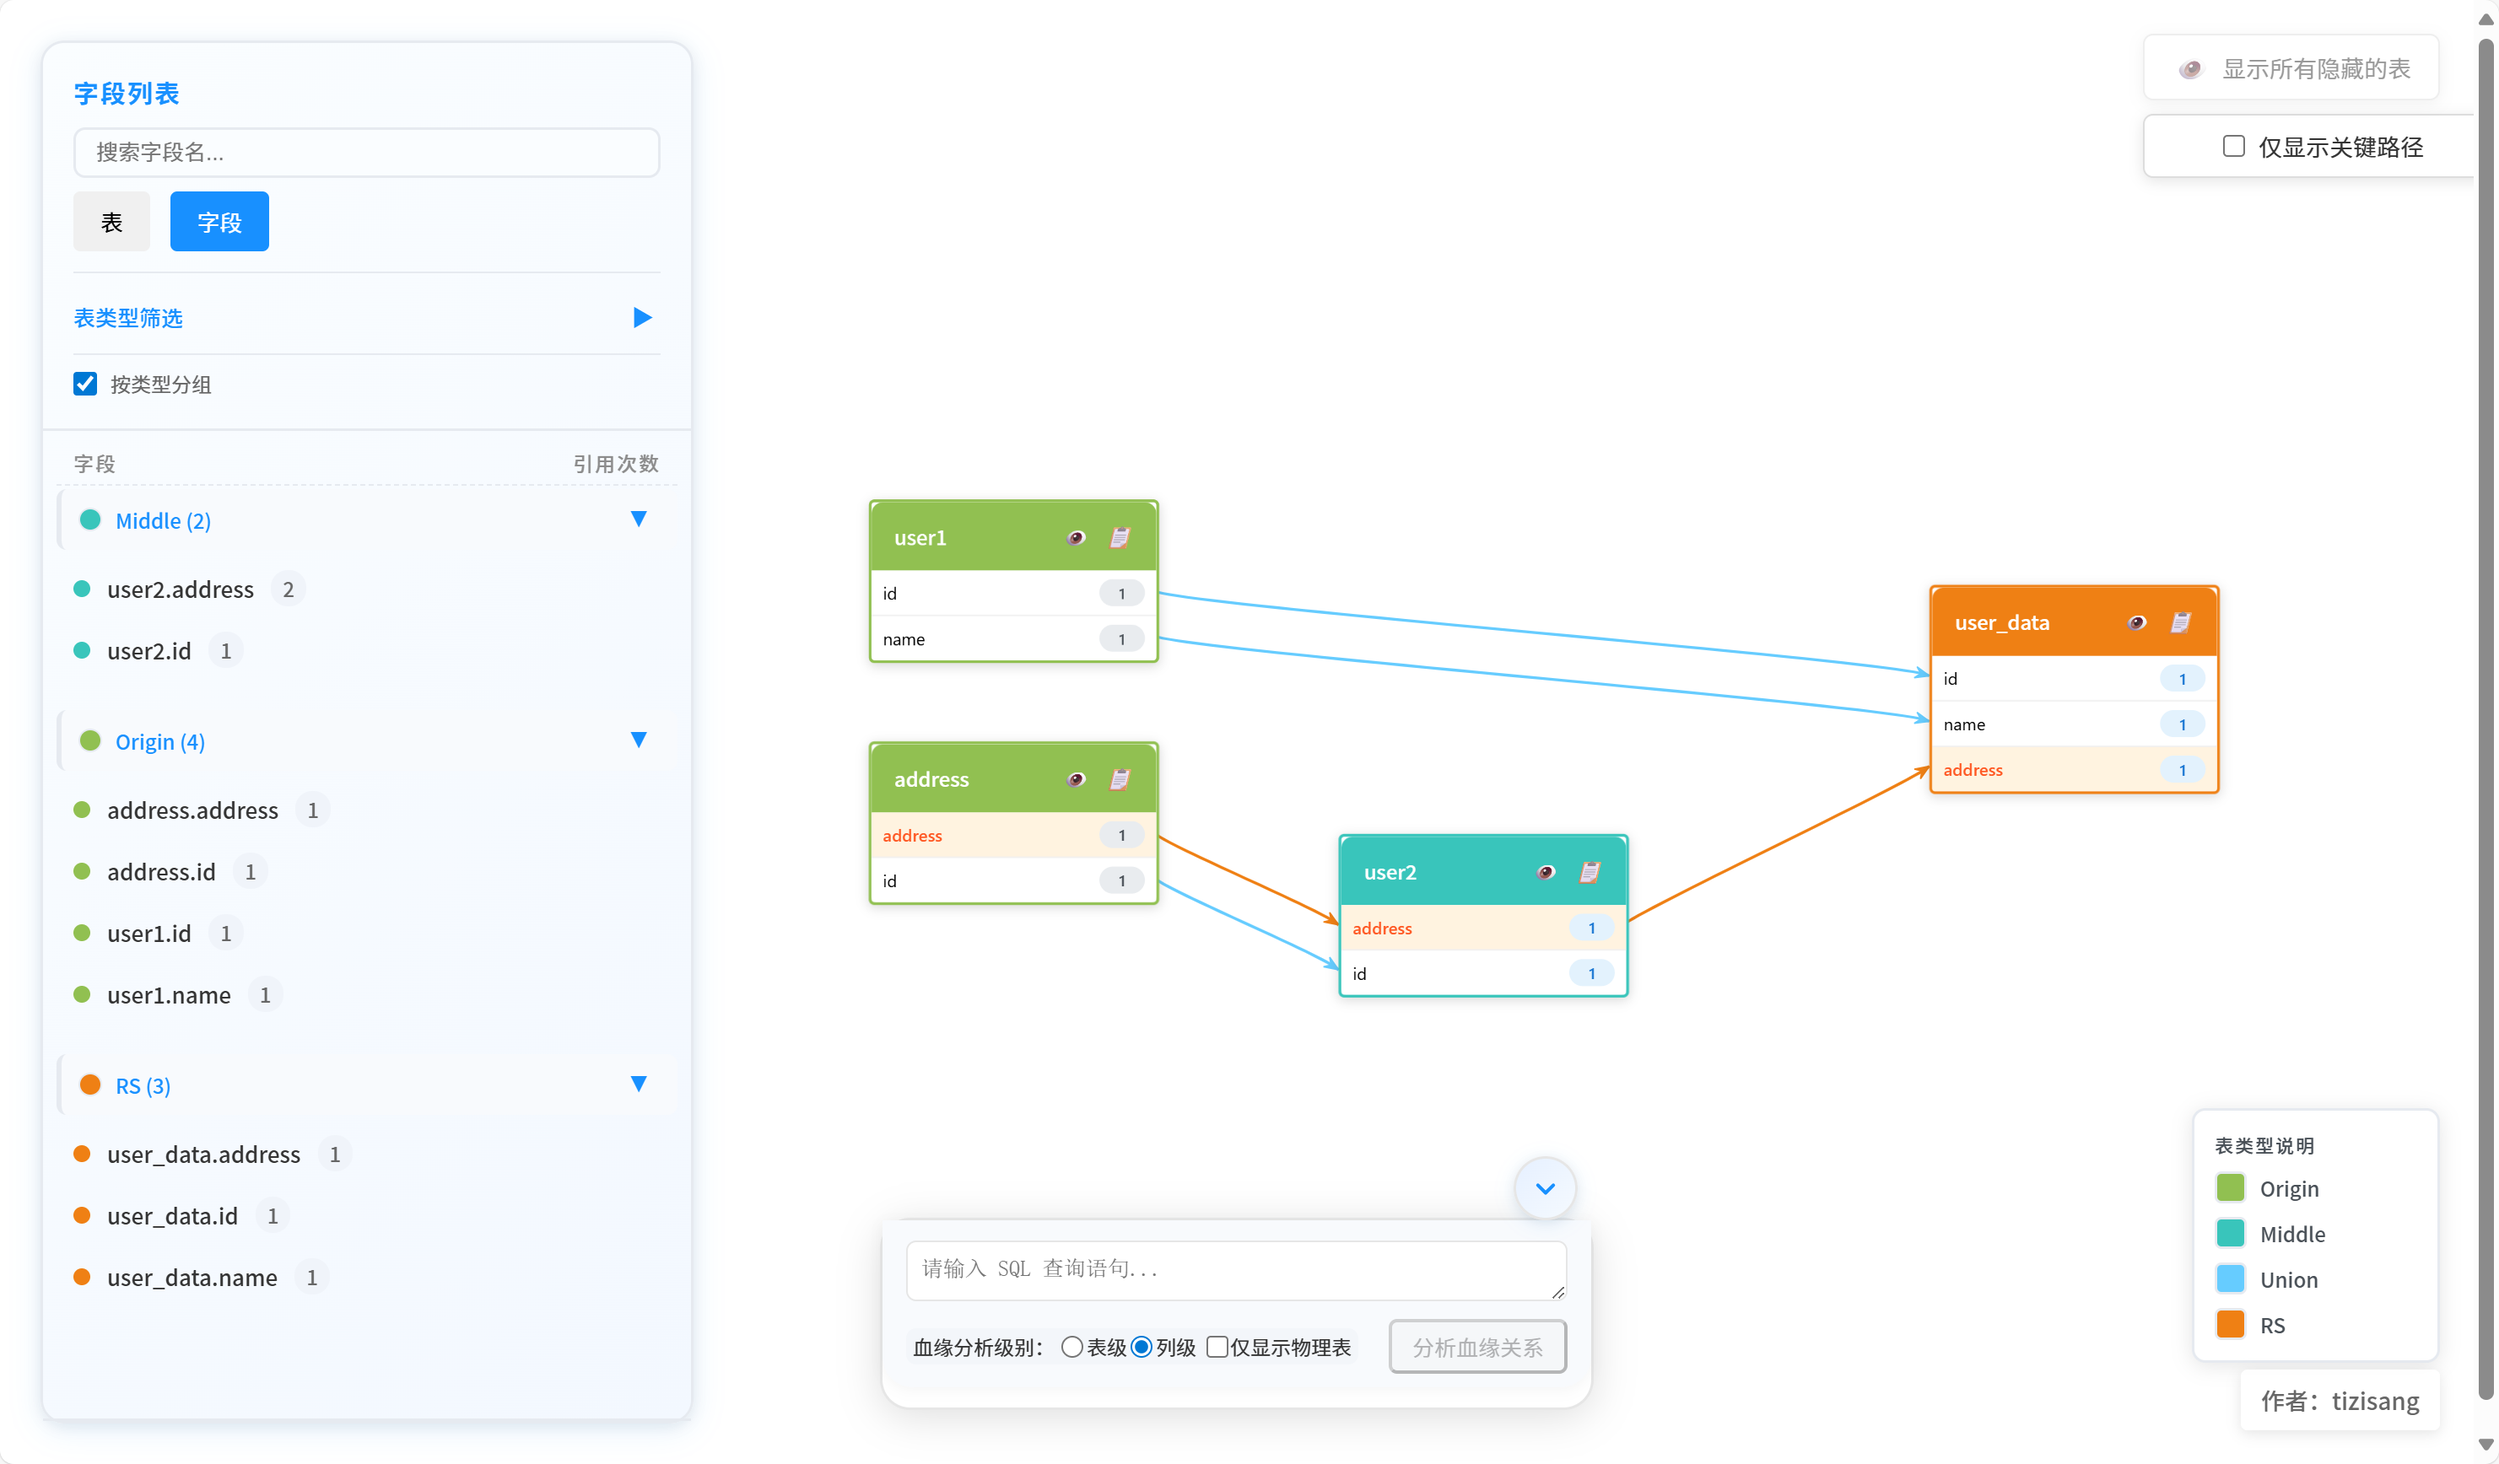
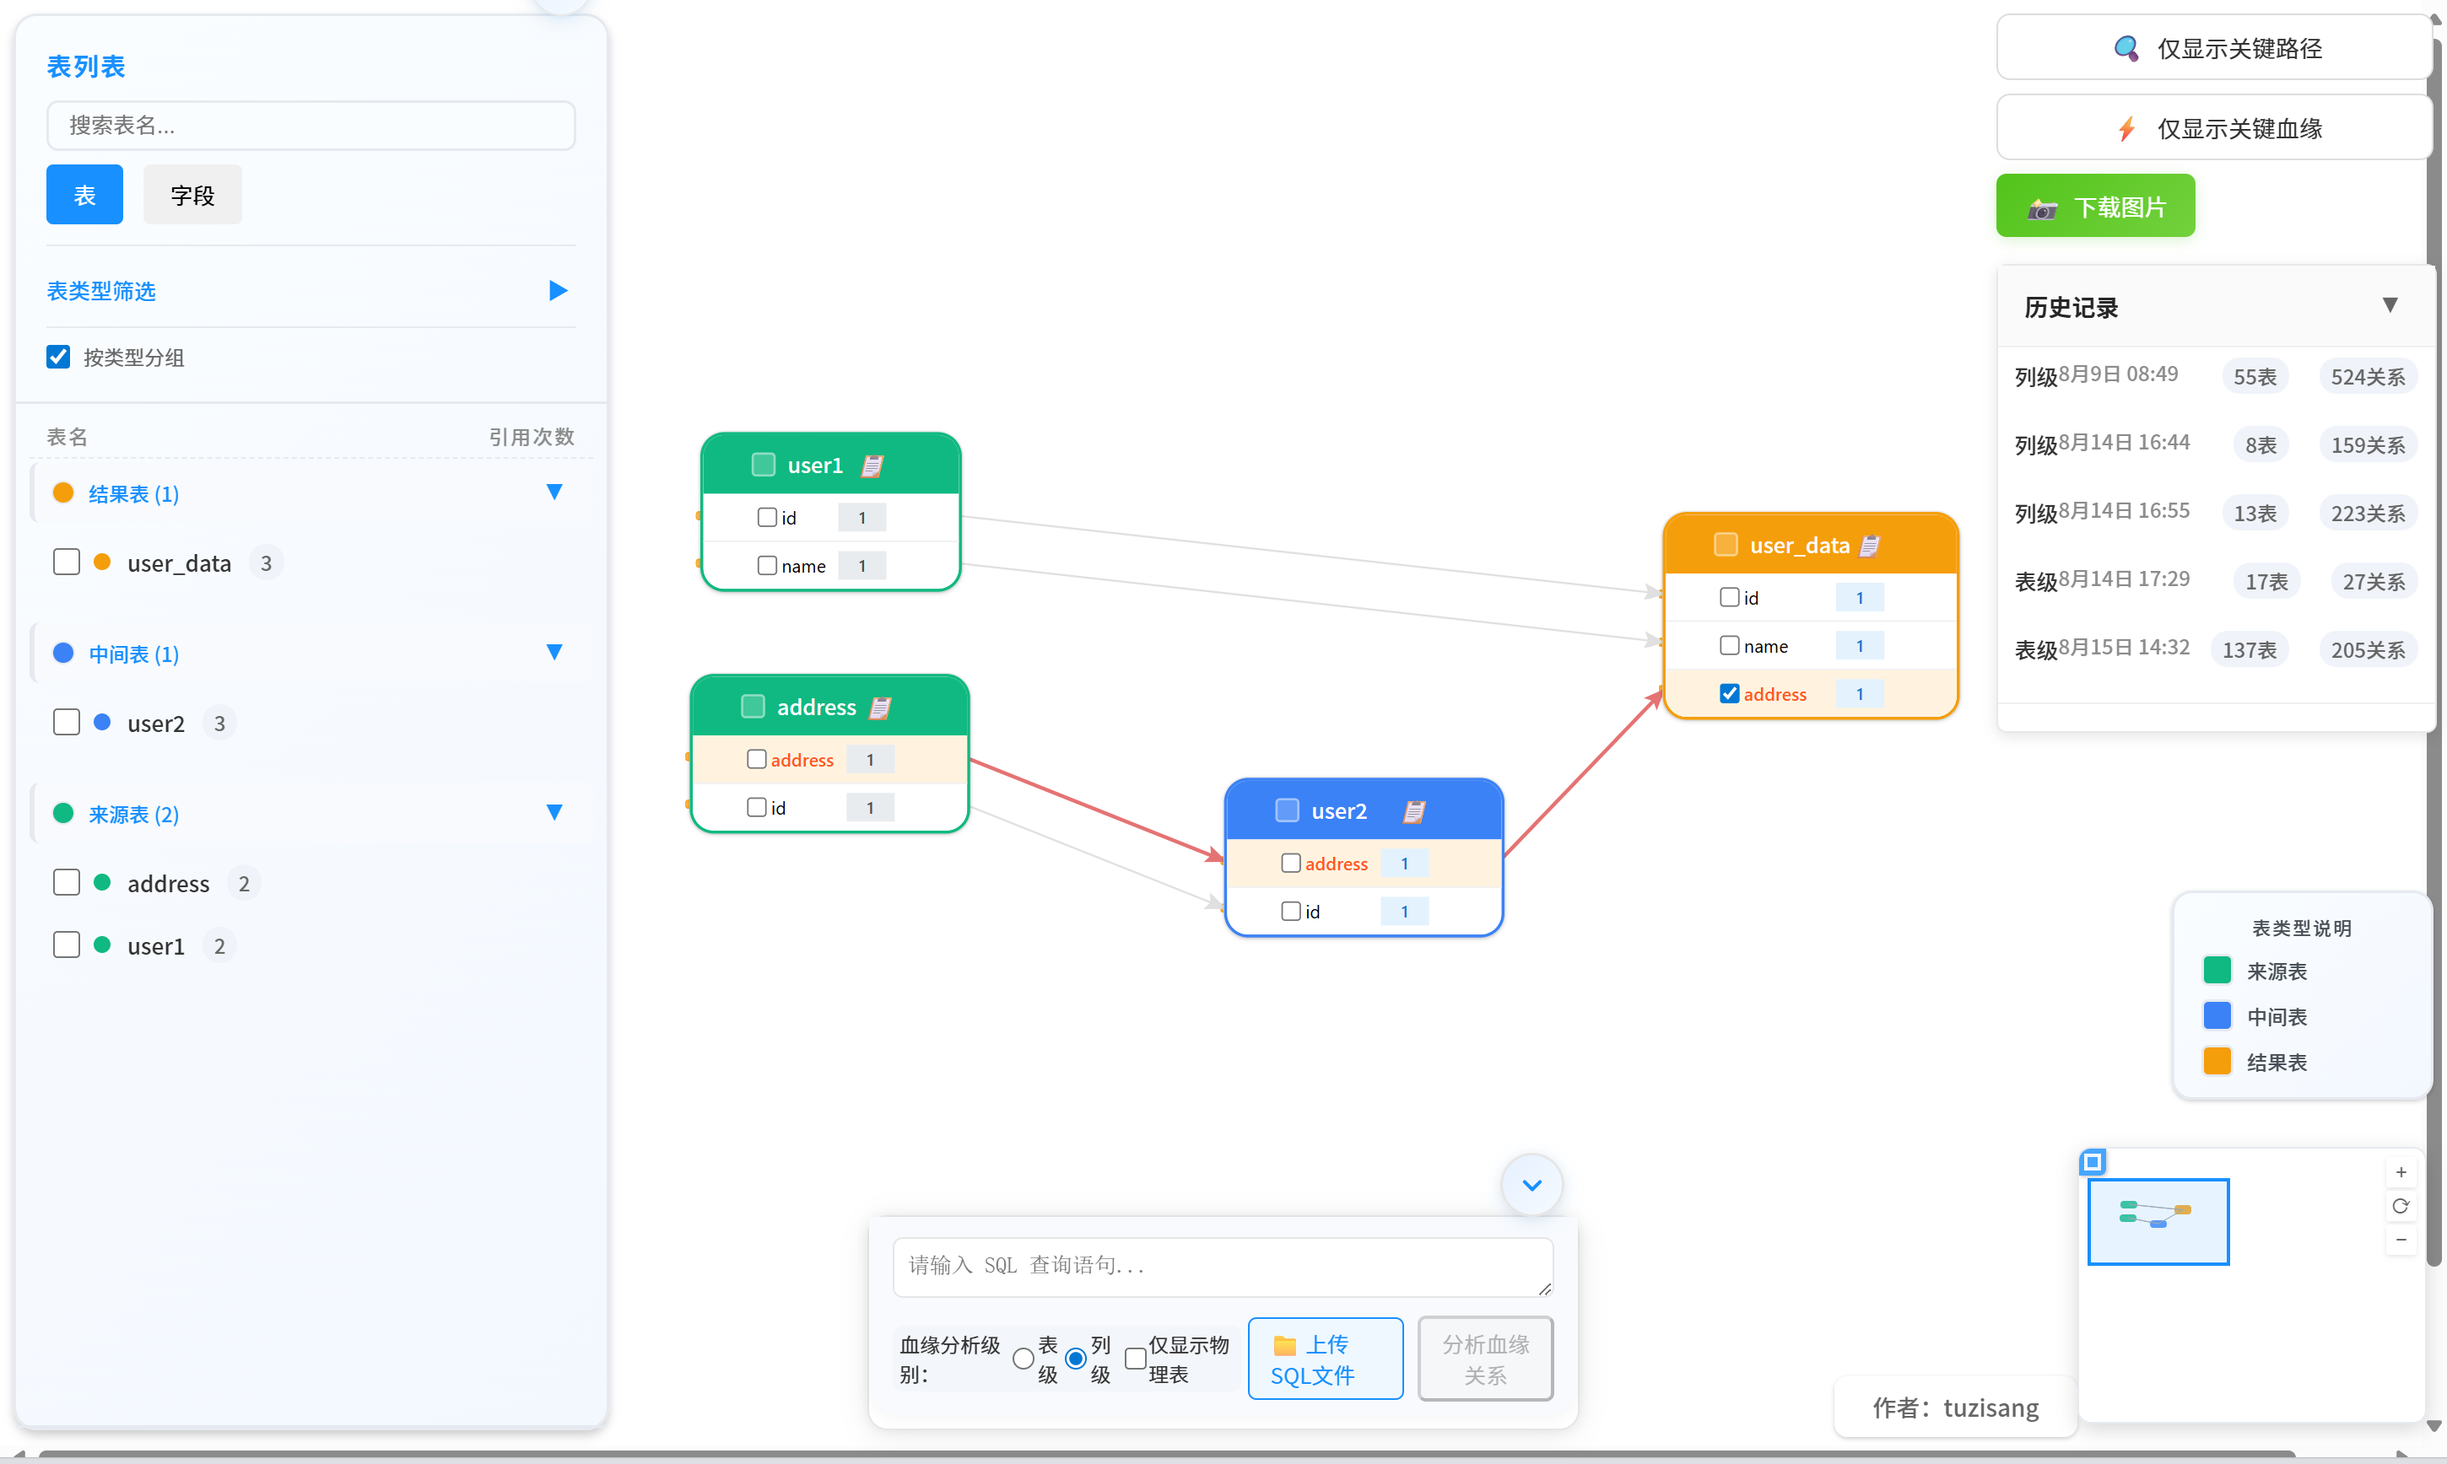
docs: 更新README并移除废弃的功能文档
- 在README中添加项目示例图片
- 删除已废弃的FEATURE_UPDATE.md文件

diff --git a/README.md b/README.md
@@ -40,6 +40,7 @@
 - **NetworkX**：图数据结构处理（未修改）
 
 ## ✨ 前端核心创新亮点
+![项目示例图](src/assets/sample.png)
 
 ### 1. 🎯 双模式血缘分析
 #### 表级血缘模式
